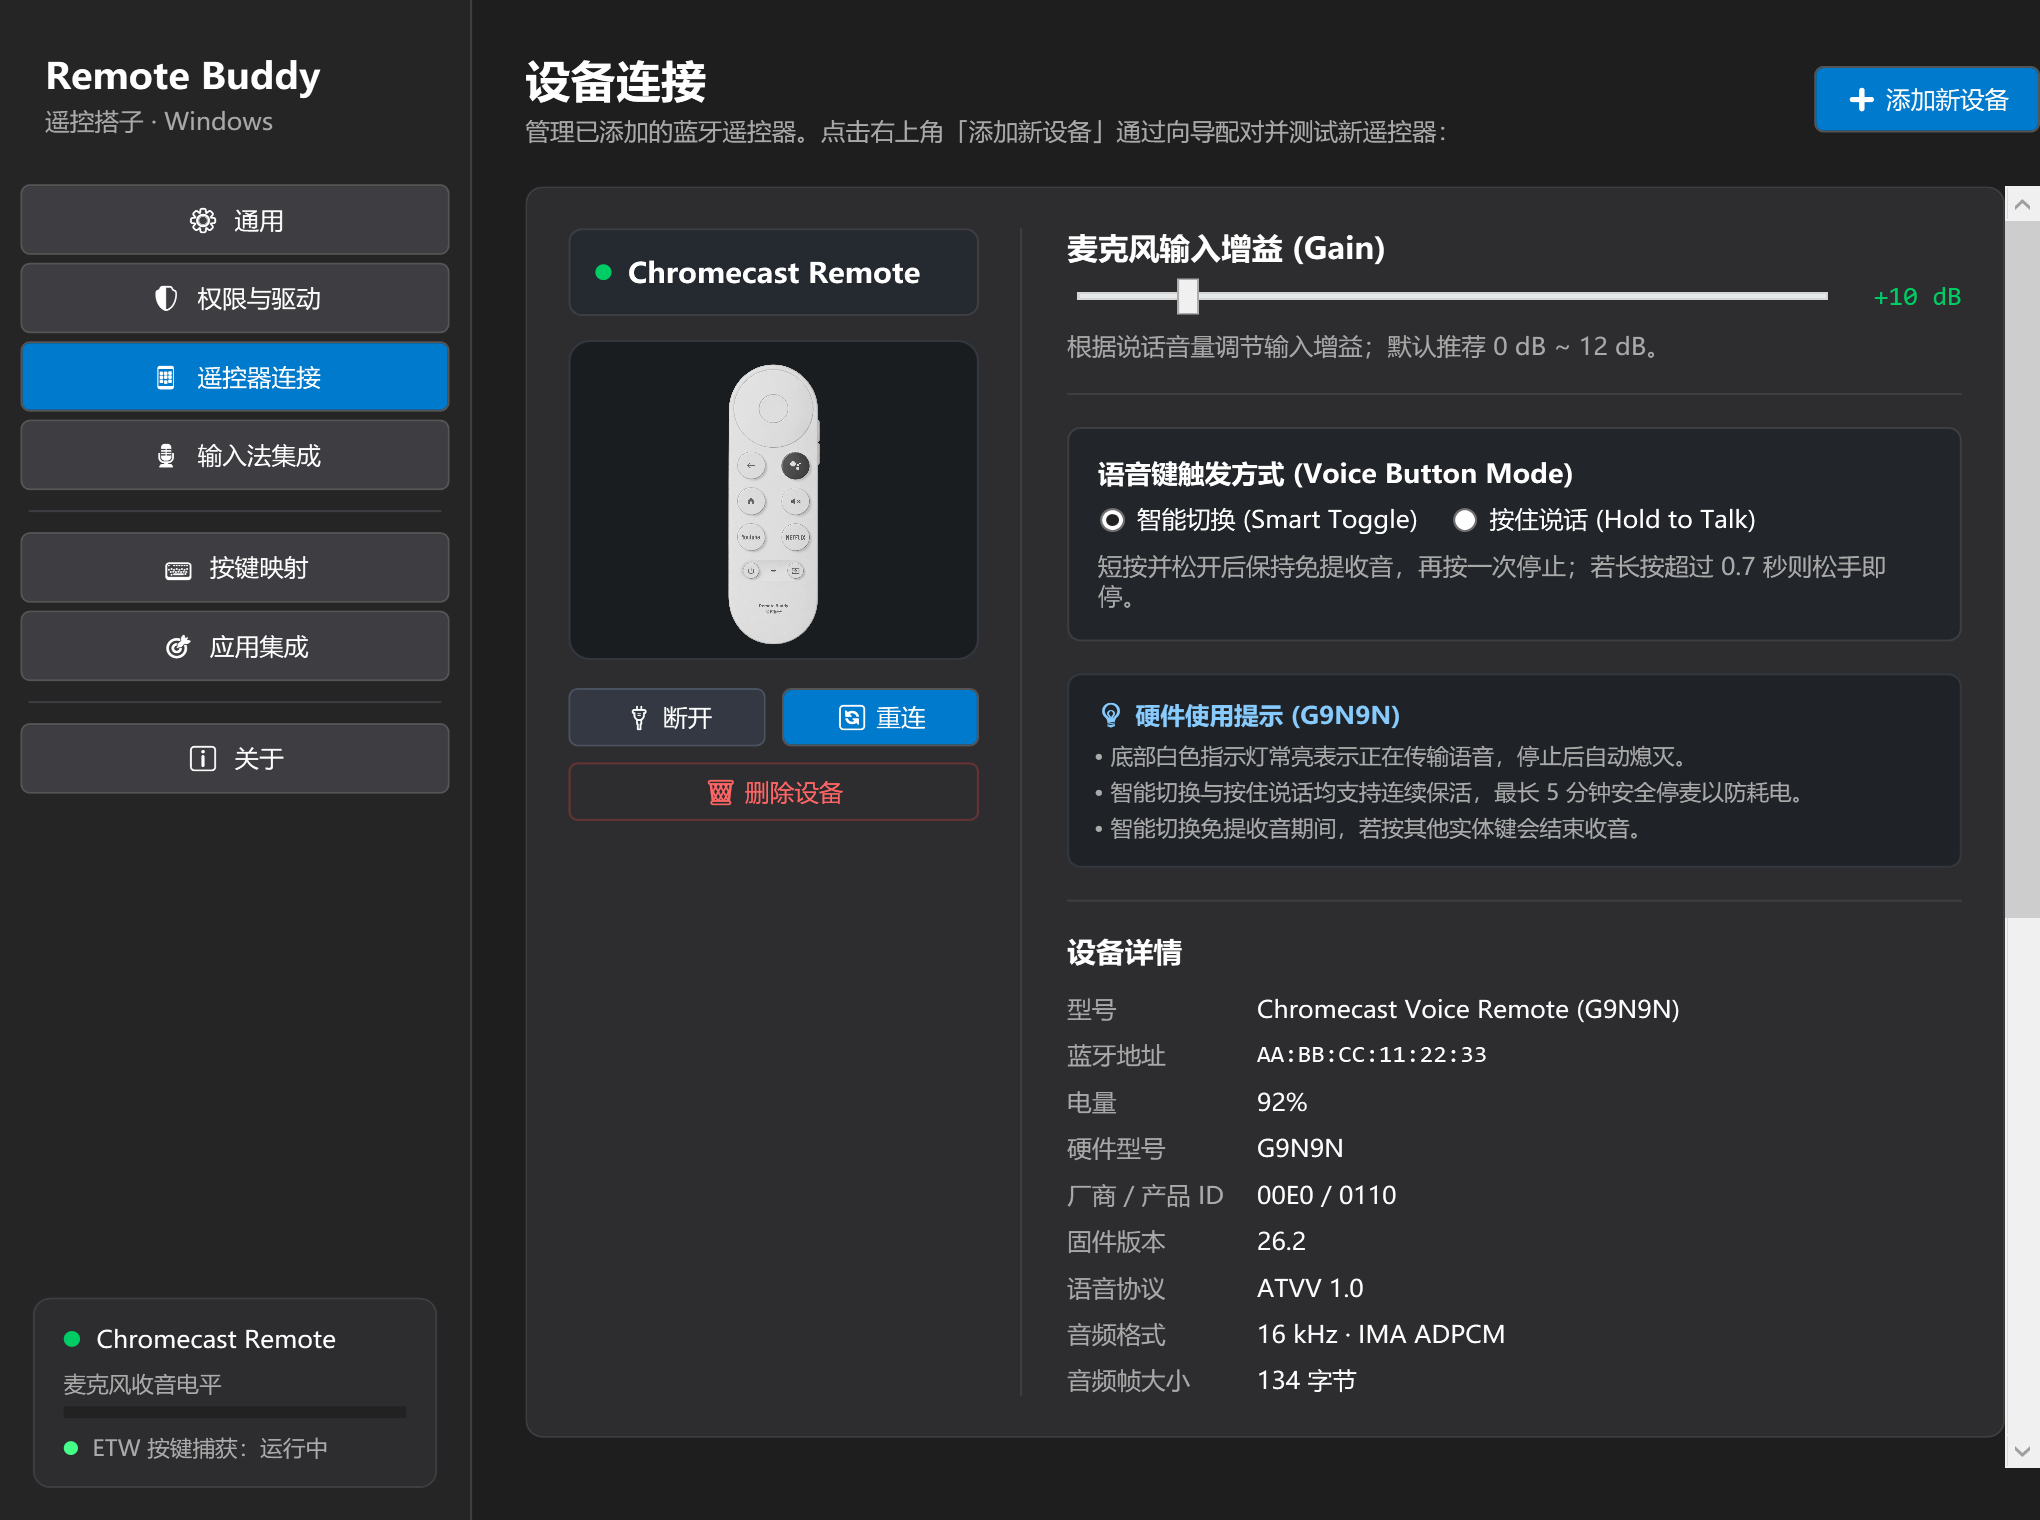
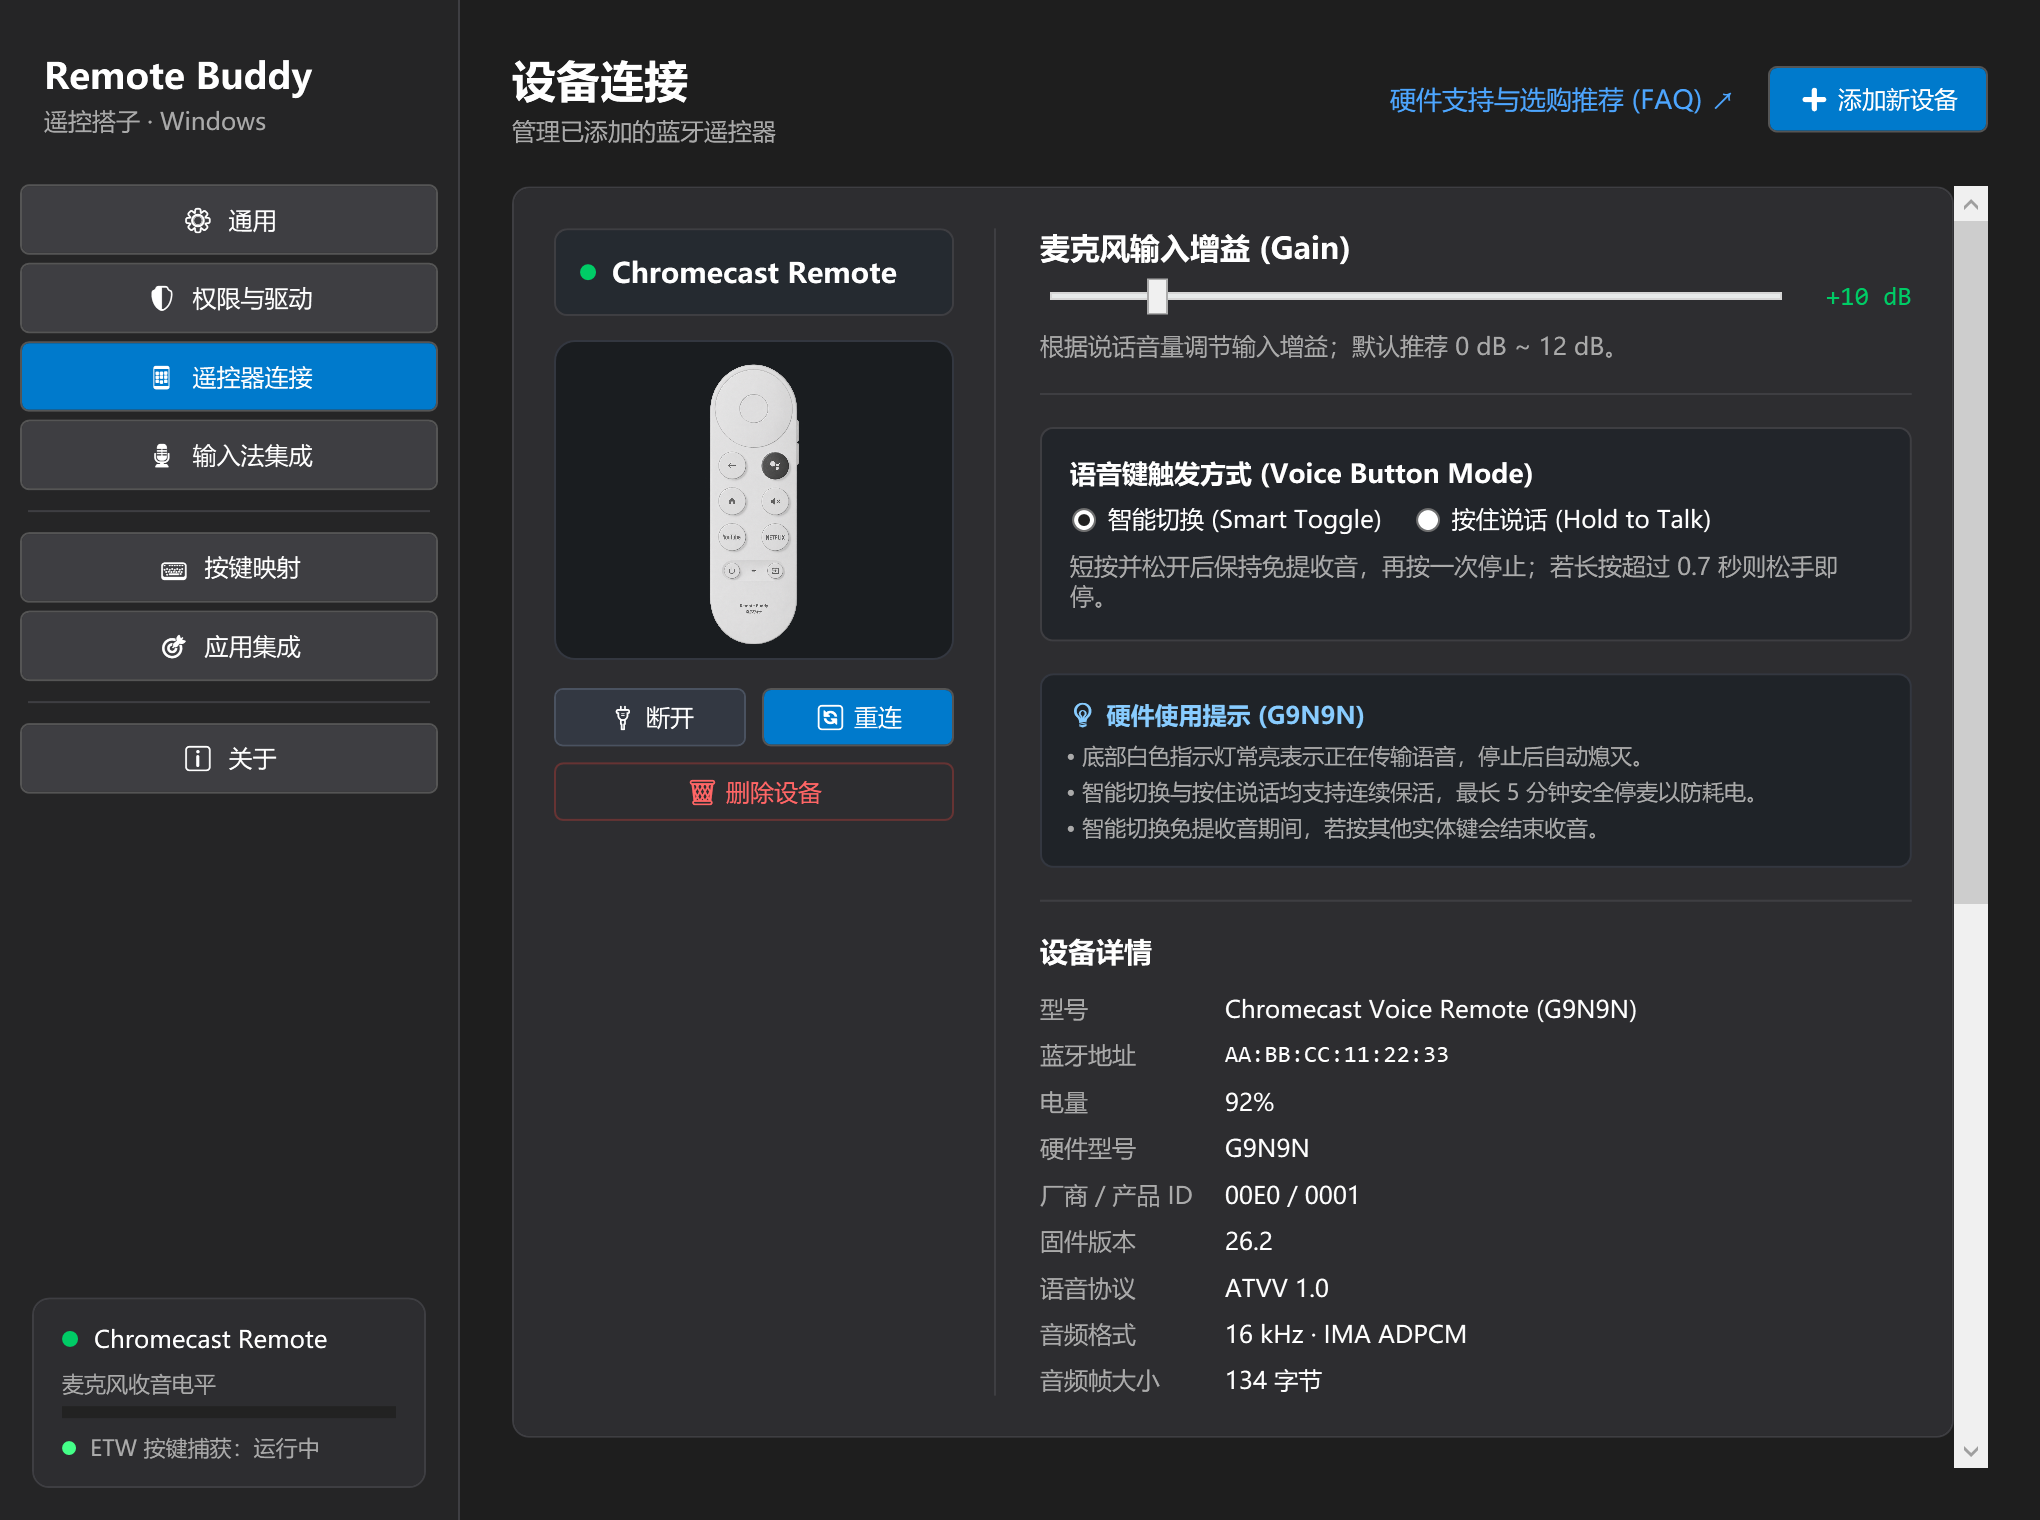
docs: update screenshots and voice hotkey documentation

diff --git a/src/RemoteBuddy.App/Views/Pages/IntegrationsPage.xaml b/src/RemoteBuddy.App/Views/Pages/IntegrationsPage.xaml
@@ -69,10 +69,14 @@
                                 <TextBlock Text="{Binding CurrentShortcutDisplay}" Foreground="#FFF" FontFamily="Consolas" FontSize="12"/>
                             </Border>
                         </StackPanel>
-                        <StackPanel Orientation="Horizontal">
-                            <TextBlock Text="🔊 音频路由：" Foreground="{StaticResource SecondaryTextBrush}" FontSize="13"/>
-                            <TextBlock Text="{Binding VirtualCableStatusDescription}" Foreground="{Binding VirtualCableStatusBrush}" FontSize="12" TextWrapping="Wrap"/>
-                        </StackPanel>
+                        <Grid>
+                            <Grid.ColumnDefinitions>
+                                <ColumnDefinition Width="Auto"/>
+                                <ColumnDefinition Width="*"/>
+                            </Grid.ColumnDefinitions>
+                            <TextBlock Grid.Column="0" Text="🔊 音频路由：" Foreground="{StaticResource SecondaryTextBrush}" FontSize="13"/>
+                            <TextBlock Grid.Column="1" Text="{Binding VirtualCableStatusDescription}" Foreground="{Binding VirtualCableStatusBrush}" FontSize="12" TextWrapping="Wrap" VerticalAlignment="Center"/>
+                        </Grid>
                     </StackPanel>
                 </Border>
 

diff --git a/docs/doubao-voice-hotkeys.md b/docs/doubao-voice-hotkeys.md
@@ -8,8 +8,8 @@
 
 ## Remote Buddy 的发送方式
 
-- 选中「豆包输入法」时，Remote Buddy 使用 Microsoft 签名的 `usbip-win2` 主机控制器和 HIDMaestro 的公开 USB/IP 接口创建虚拟键盘。它将整组语音快捷键转换为键盘报告，保留左右修饰键，并在会话结束时释放按住的键。单击切换模式也用同一个后端。
-- 选中其他工具时，语音快捷键继续走原有 `SendInput` 路径。普通按键映射和 VB-CABLE 音频路由沿用原有实现。
+- 选中「豆包输入法」以及其它支持全局快捷键的语音工具时，Remote Buddy 均使用 Microsoft 签名的 `usbip-win2` 主机控制器和 HIDMaestro 的公开 USB/IP 接口创建虚拟键盘。它将整组语音快捷键转换为键盘报告，保留左右修饰键，并在会话结束时释放按住的键；单击切换模式也用同一个后端。
+- 普通按键映射继续走原有 `SendInput` 路径，VB-CABLE 音频路由沿用原有 WASAPI 实现。
 - Remote Buddy 依靠输入法的全局热键，保持当前输入法。USB/IP 路径使用 Windows 已信任的驱动签名。
 
 ## 设置与验收

diff --git a/docs/input-and-hotkeys.md b/docs/input-and-hotkeys.md
@@ -43,7 +43,7 @@
 【语音启动流程 (Hold to Talk - Start)】
 1. 用户按下遥控器语音键 (或遥控器上报 0x08 START_SEARCH)
 2. 开启音频管线 Pre-roll 静音缓冲垫（50ms / 1600 字节 @ 16kHz 16-bit Mono）
-3. 调用 SendInput 向前台注入输入法开始录音快捷键
+3. 通过 USB/IP 虚拟键盘向前台注入输入法开始录音快捷键
 4. 向遥控器下发 0x0C (MIC_OPEN) -> 接收 0x04 (AUDIO_START) 并提取 SessionID
 5. 将 Pre-roll 缓冲与后续流数据无缝送入 WASAPI 输出
 
